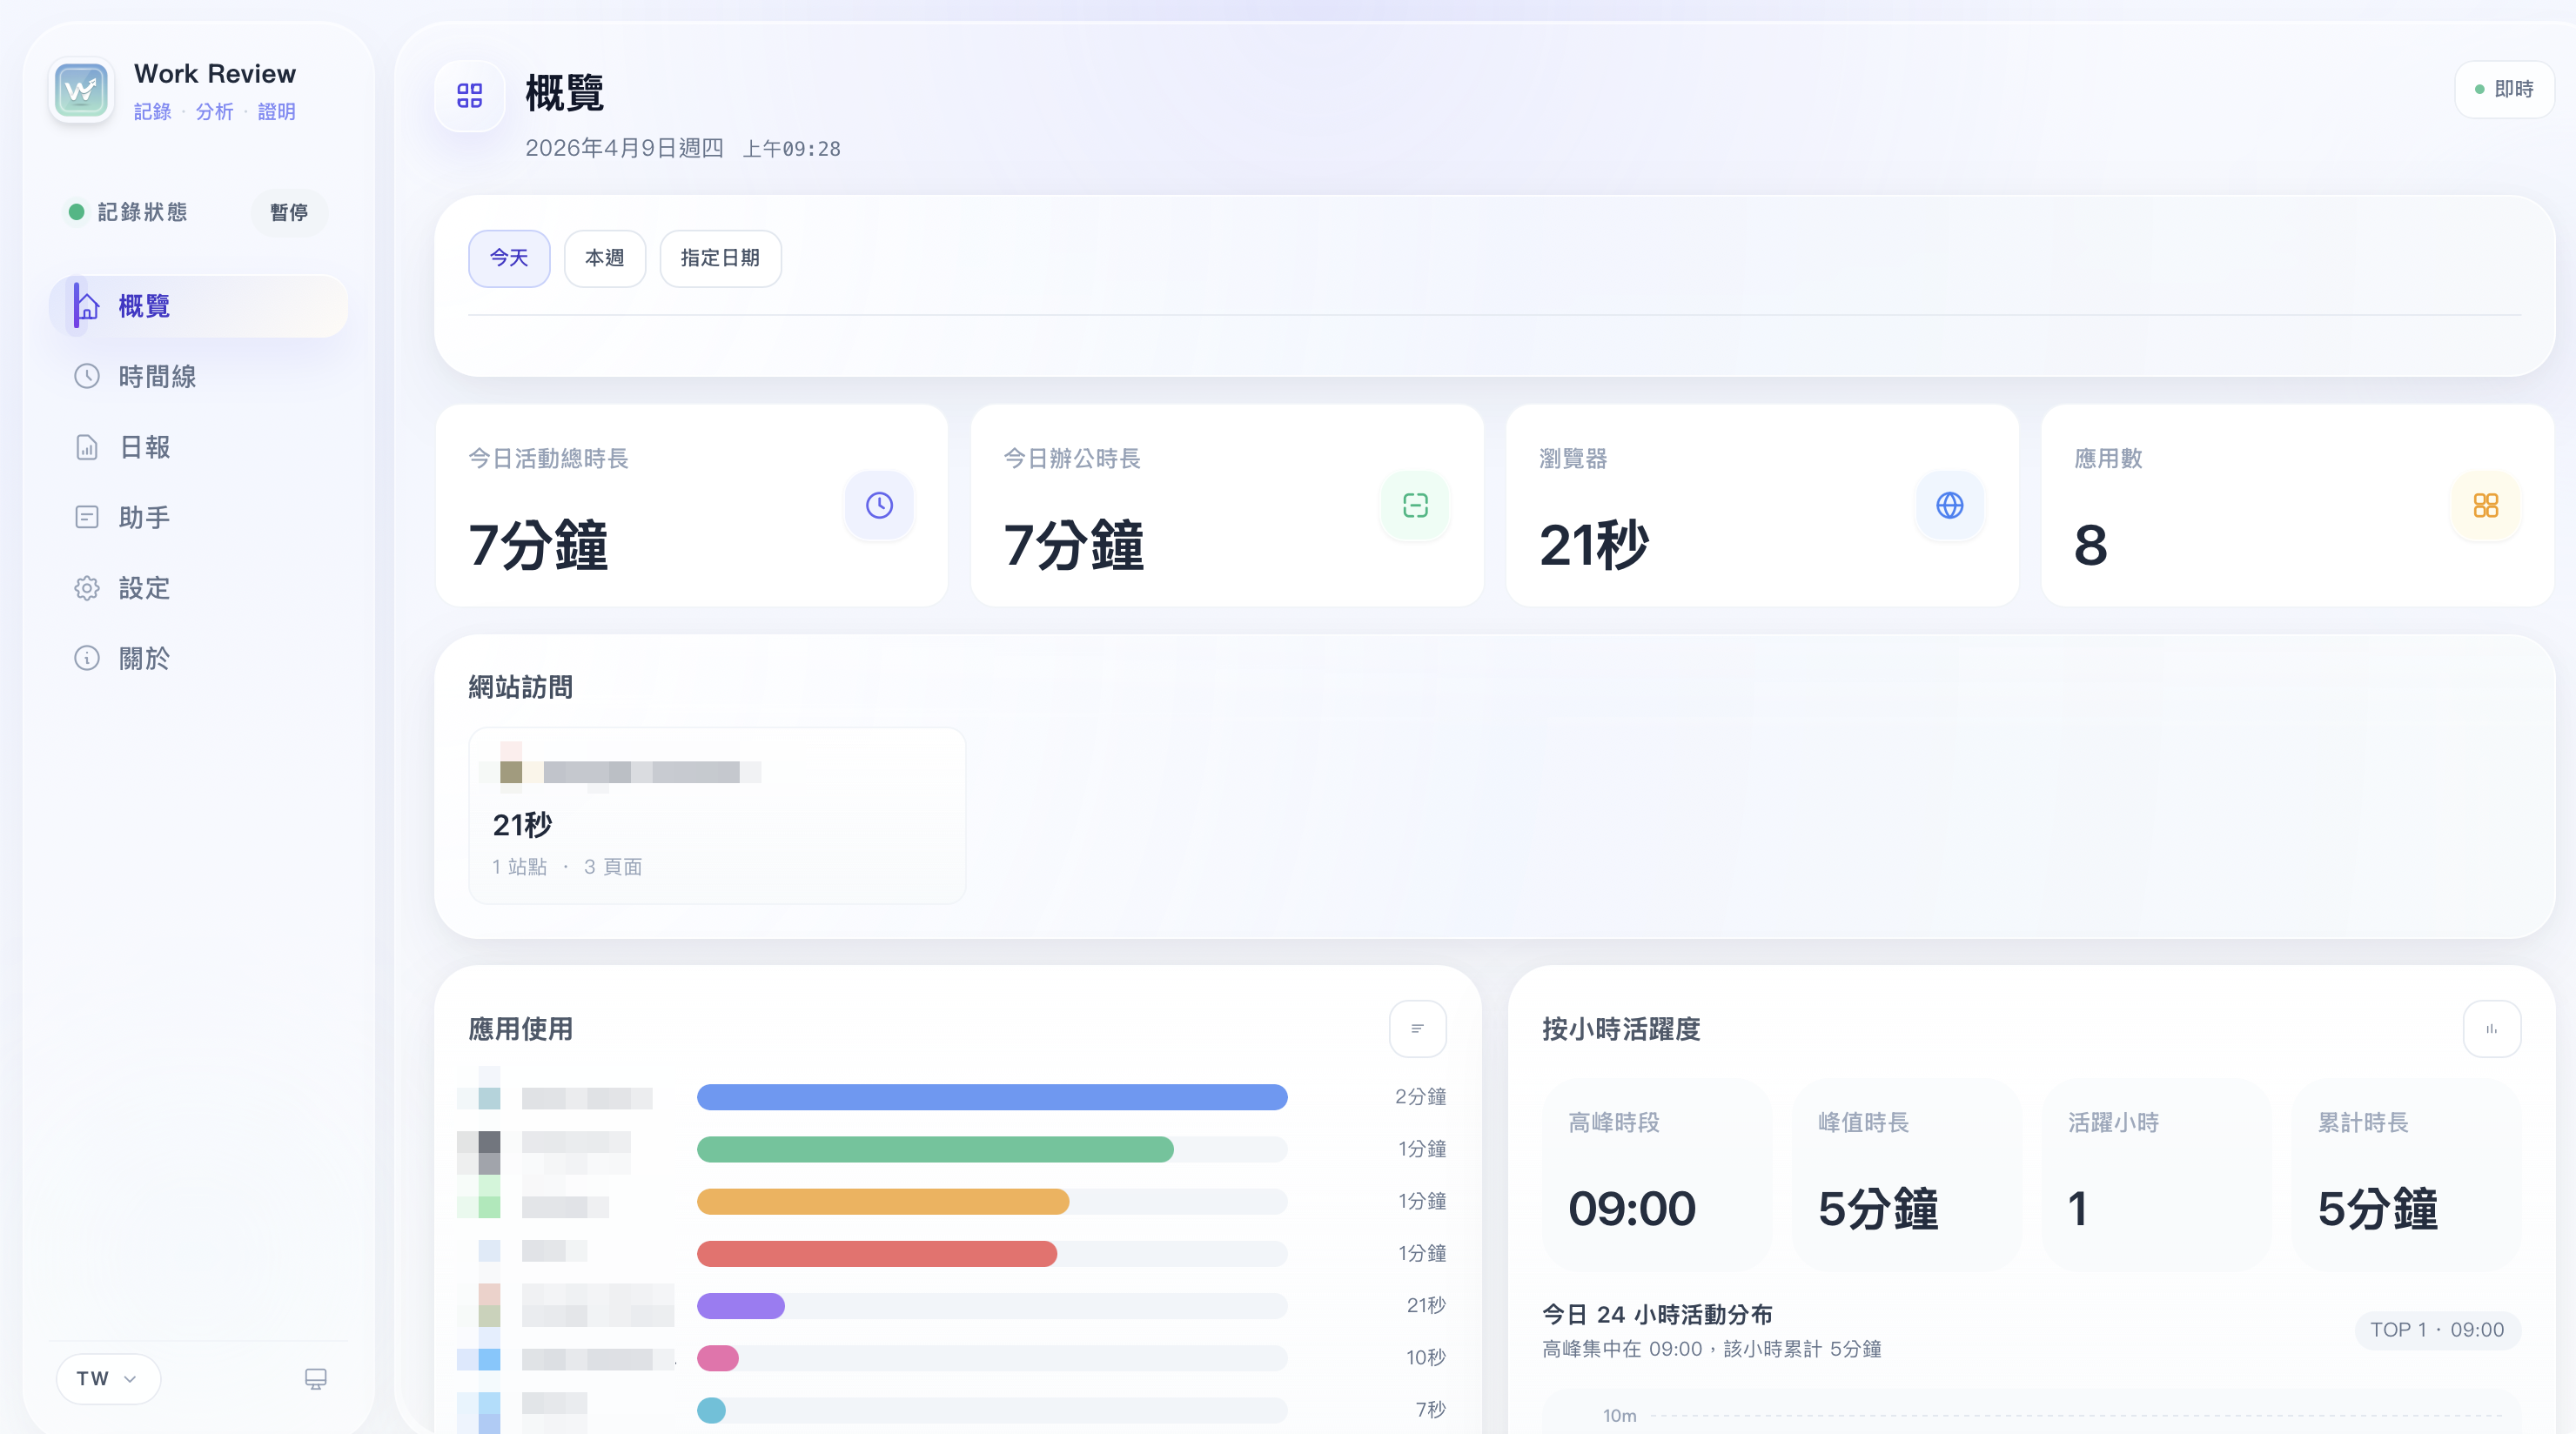
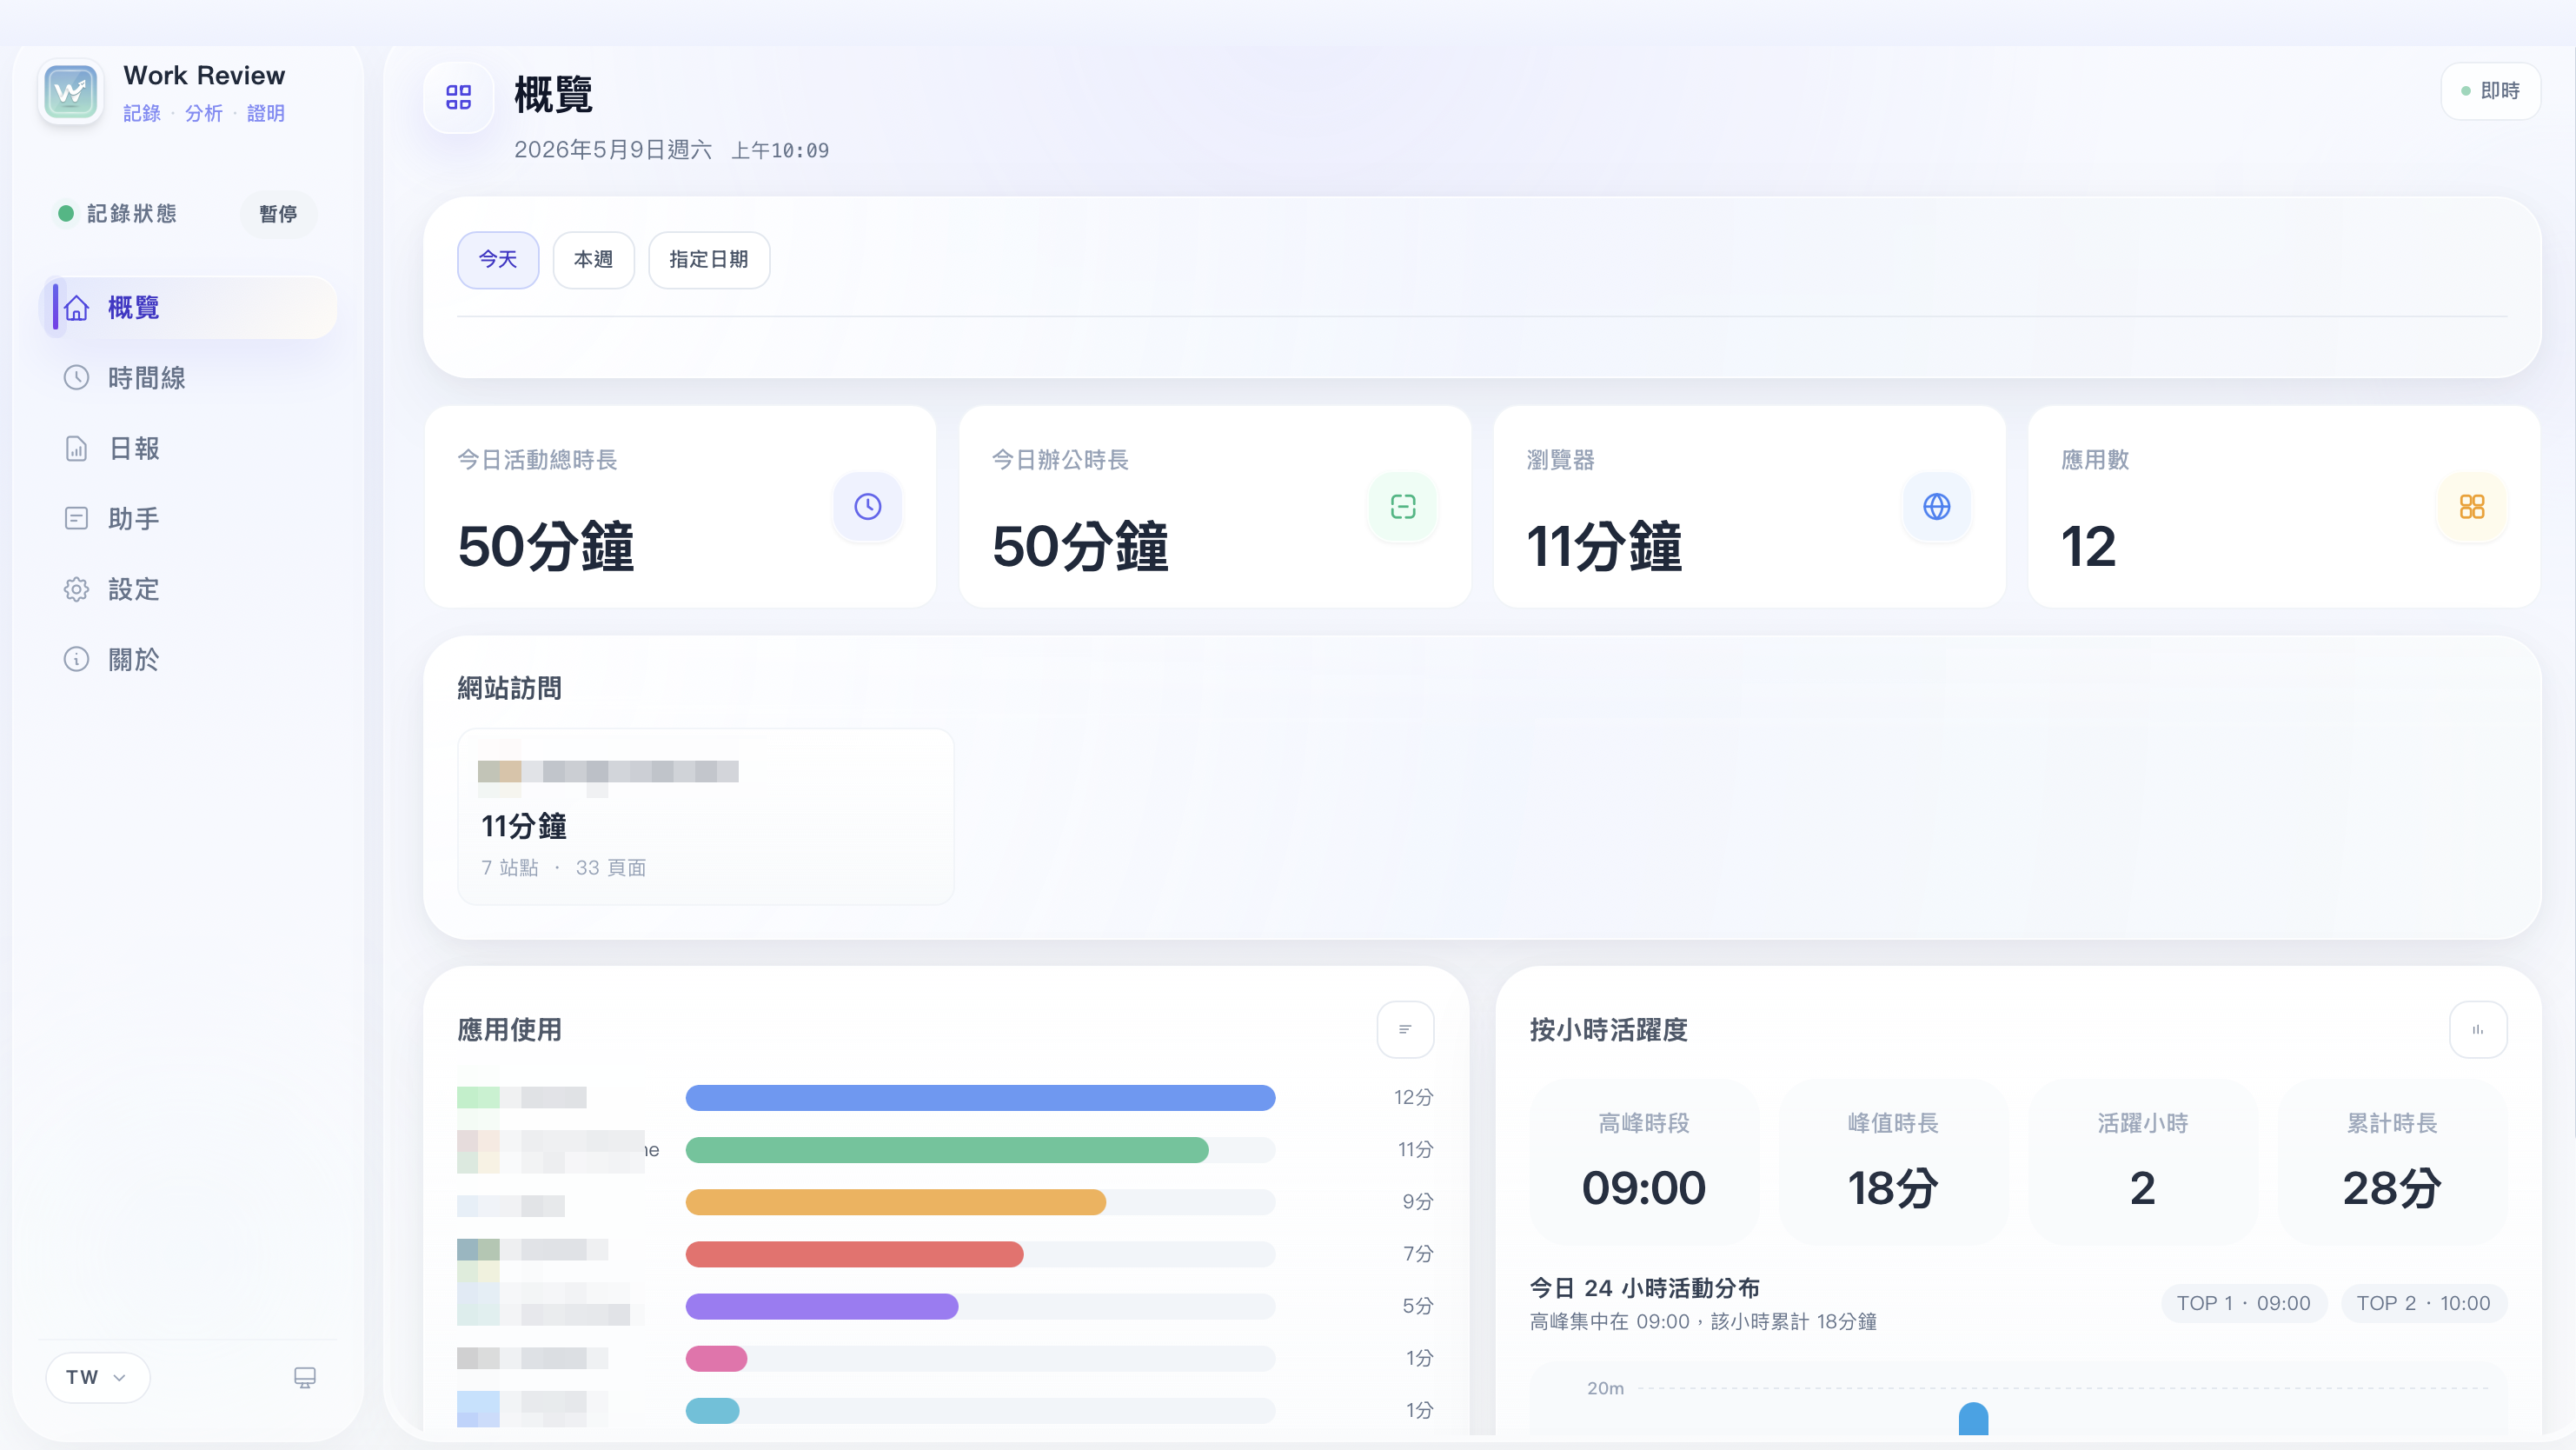
fix: API URL double-append for all providers, move manual model input to top, v1.0.46
- Fix URL path duplication causing 404 when users enter full API URLs
- Apply fix to all providers: OpenAI-compatible, Claude, Gemini, Ollama
- Move manual model input option to top of model dropdown

diff --git a/src/OpenAiCompatibility.test.js b/src/OpenAiCompatibility.test.js
@@ -9,6 +9,6 @@ test('云端分析器应使用配置的兼容端点，而不是写死官方 Open
   ]);
 
   assert.doesNotMatch(cloudSource, /https:\/\/api\.openai\.com\/v1\/chat\/completions/);
-  assert.match(cloudSource, /format!\("\{\}\/chat\/completions", self\.endpoint\)/);
+  assert.match(cloudSource, /build_chat_url/);
   assert.match(analysisSource, /CloudAnalyzer::new\(\s*endpoint,/);
 });

diff --git a/src/routes/settings/components/SettingsAI.svelte b/src/routes/settings/components/SettingsAI.svelte
@@ -478,10 +478,10 @@
               }}
               class="control-input"
             >
+              <option value="__manual__">{t('settingsAI.manualModel')}</option>
               {#each fetchedModels as model (model)}
                 <option value={model}>{model}</option>
               {/each}
-              <option value="__manual__">{t('settingsAI.manualModel')}</option>
             </select>
           {/if}
         </div>

diff --git a/src-tauri/src/main.rs b/src-tauri/src/main.rs
@@ -1102,11 +1102,17 @@ fn should_probe_browser_url_before_change_detection(
     window_title: &str,
     last_app_name: Option<&str>,
     last_window_title: Option<&str>,
+    current_browser_url: Option<&str>,
 ) -> bool {
-    monitor::is_browser_app(app_name)
-        && !window_title.is_empty()
-        && last_app_name == Some(app_name)
-        && last_window_title == Some(window_title)
+    if !monitor::is_browser_app(app_name) || window_title.is_empty() {
+        return false;
+    }
+    // 首次遇到浏览器窗口时（last 为 None），也需要探测 URL
+    if last_app_name.is_none() || last_window_title.is_none() {
+        return current_browser_url.is_none();
+    }
+    // 同窗口持续使用时，探测 URL 变化
+    last_app_name == Some(app_name) && last_window_title == Some(window_title)
 }
 
 fn browser_change_capture_min_interval_ms(
@@ -1675,7 +1681,15 @@ async fn background_screenshot_task(state: Arc<Mutex<AppState>>, app: AppHandle)
             )
         };
         let mut active_window = if let Some(window) = cached_active_window {
-            window
+            // 头像循环缓存不含浏览器 URL，如果是浏览器窗口则跳过缓存重新获取
+            if monitor::is_browser_app(&window.app_name) && window.browser_url.is_none() {
+                match monitor::get_active_window() {
+                    Ok(w) => w,
+                    Err(_) => window,
+                }
+            } else {
+                window
+            }
         } else {
             match monitor::get_active_window() {
                 Ok(w) => w,
@@ -1733,6 +1747,7 @@ async fn background_screenshot_task(state: Arc<Mutex<AppState>>, app: AppHandle)
             &active_window.window_title,
             last_app_name.as_deref(),
             last_app_window_title.as_deref(),
+            active_window.browser_url.as_deref(),
         );
         if should_probe_browser_url {
             if let Some(resolved_url) = monitor::resolve_browser_url_for_window(
@@ -3523,18 +3538,39 @@ mod tests {
             "项目文档",
             Some("Google Chrome"),
             Some("项目文档"),
+            None,
         ));
         assert!(!should_probe_browser_url_before_change_detection(
             "Google Chrome",
             "项目文档",
             Some("Google Chrome"),
             Some("另一个标签页"),
+            None,
         ));
         assert!(!should_probe_browser_url_before_change_detection(
             "Cursor",
             "main.rs",
             Some("Cursor"),
             Some("main.rs"),
+            None,
+        ));
+    }
+
+    #[test]
+    fn 首次遇到浏览器窗口时应探测url() {
+        assert!(should_probe_browser_url_before_change_detection(
+            "Google Chrome",
+            "项目文档",
+            None,
+            None,
+            None,
+        ));
+        assert!(!should_probe_browser_url_before_change_detection(
+            "Google Chrome",
+            "项目文档",
+            None,
+            None,
+            Some("https://example.com"),
         ));
     }
 

diff --git a/src-tauri/src/commands.rs b/src-tauri/src/commands.rs
@@ -2530,8 +2530,10 @@ async fn generate_text_answer_with_model(
 
     match model_config.provider {
         AiProvider::Ollama => {
+            let ollama_base = model_config.endpoint.trim().trim_end_matches('/');
+            let ollama_url = if ollama_base.ends_with("/api/chat") { ollama_base.to_string() } else { format!("{ollama_base}/api/chat") };
             let response = client
-                .post(format!("{}/api/chat", model_config.endpoint))
+                .post(&ollama_url)
                 .json(&serde_json::json!({
                     "model": model_config.model,
                     "messages": [
@@ -2573,8 +2575,10 @@ async fn generate_text_answer_with_model(
                 return Err(AppError::Analysis("Claude API Key 未配置".to_string()));
             }
 
+            let claude_base = model_config.endpoint.trim().trim_end_matches('/');
+            let claude_url = if claude_base.ends_with("/messages") { claude_base.to_string() } else { format!("{claude_base}/messages") };
             let response = client
-                .post(format!("{}/messages", model_config.endpoint))
+                .post(&claude_url)
                 .header("x-api-key", api_key)
                 .header("anthropic-version", "2023-06-01")
                 .header("content-type", "application/json")
@@ -2616,11 +2620,10 @@ async fn generate_text_answer_with_model(
                 return Err(AppError::Analysis("Gemini API Key 未配置".to_string()));
             }
 
+            let gemini_base = model_config.endpoint.trim().trim_end_matches('/');
+            let gemini_url = format!("{}/models/{}:generateContent?key={}", gemini_base, model_config.model, api_key);
             let response = client
-                .post(format!(
-                    "{}/models/{}:generateContent?key={}",
-                    model_config.endpoint, model_config.model, api_key
-                ))
+                .post(&gemini_url)
                 .json(&serde_json::json!({
                     "contents": [{
                         "parts": [{
@@ -2654,8 +2657,14 @@ async fn generate_text_answer_with_model(
             Ok(answer)
         }
         _ => {
+            let endpoint = model_config.endpoint.trim().trim_end_matches('/');
+            let url = if endpoint.ends_with("/chat/completions") {
+                endpoint.to_string()
+            } else {
+                format!("{endpoint}/chat/completions")
+            };
             let mut request = client
-                .post(format!("{}/chat/completions", model_config.endpoint))
+                .post(&url)
                 .json(&serde_json::json!({
                     "model": model_config.model,
                     "messages": [
@@ -4608,6 +4617,10 @@ fn openai_compatible_chat_completion_urls(endpoint: &str) -> Vec<String> {
         return Vec::new();
     }
 
+    if base.ends_with("/chat/completions") {
+        return vec![base.to_string()];
+    }
+
     let mut urls = vec![format!("{base}/chat/completions")];
     if !base.ends_with("/v1") {
         urls.push(format!("{base}/v1/chat/completions"));
@@ -4700,8 +4713,10 @@ async fn test_claude(
 ) -> Result<String, String> {
     let api_key = config.api_key.as_ref().ok_or("未配置 API Key")?;
 
+    let claude_base = config.endpoint.trim().trim_end_matches('/');
+    let claude_url = if claude_base.ends_with("/messages") { claude_base.to_string() } else { format!("{claude_base}/messages") };
     let response = client
-        .post(format!("{}/messages", config.endpoint))
+        .post(&claude_url)
         .header("x-api-key", api_key)
         .header("anthropic-version", "2023-06-01")
         .json(&serde_json::json!({

diff --git a/crates/core/src/analysis/summary.rs b/crates/core/src/analysis/summary.rs
@@ -134,6 +134,10 @@ fn openai_compatible_chat_completion_urls(endpoint: &str) -> Vec<String> {
         return Vec::new();
     }
 
+    if base.ends_with("/chat/completions") {
+        return vec![base.to_string()];
+    }
+
     let mut urls = vec![format!("{base}/chat/completions")];
     if !base.ends_with("/v1") {
         urls.push(format!("{base}/v1/chat/completions"));
@@ -876,6 +880,18 @@ mod tests {
         assert_eq!(
             openai_compatible_chat_completion_urls("https://api.openai.com/v1"),
             vec!["https://api.openai.com/v1/chat/completions".to_string()]
+        );
+    }
+
+    #[test]
+    fn 已包含_chat_completions_的端点不应重复拼接() {
+        assert_eq!(
+            openai_compatible_chat_completion_urls("https://ark.cn-beijing.volces.com/api/v3/chat/completions"),
+            vec!["https://ark.cn-beijing.volces.com/api/v3/chat/completions".to_string()]
+        );
+        assert_eq!(
+            openai_compatible_chat_completion_urls("https://example.com/v1/chat/completions/"),
+            vec!["https://example.com/v1/chat/completions".to_string()]
         );
     }
 }

diff --git a/crates/core/src/analysis/cloud.rs b/crates/core/src/analysis/cloud.rs
@@ -11,6 +11,15 @@ use serde_json::json;
 use std::path::Path;
 use std::time::Duration;
 
+fn build_chat_url(endpoint: &str) -> String {
+    let base = endpoint.trim().trim_end_matches('/');
+    if base.ends_with("/chat/completions") {
+        base.to_string()
+    } else {
+        format!("{base}/chat/completions")
+    }
+}
+
 fn screenshot_prompt(locale: AppLocale) -> &'static str {
     match locale {
         AppLocale::ZhCn => "请简要描述这张截图中的工作内容，用简体中文回答，限制在 50 字以内。",
@@ -67,7 +76,7 @@ impl CloudAnalyzer {
 
         let response = self
             .client
-            .post(format!("{}/chat/completions", self.endpoint))
+            .post(build_chat_url(&self.endpoint))
             .header("Authorization", format!("Bearer {}", self.api_key))
             .json(&json!({
                 "model": self.model,
@@ -140,7 +149,7 @@ impl CloudAnalyzer {
 
         let response = self
             .client
-            .post(format!("{}/chat/completions", self.endpoint))
+            .post(build_chat_url(&self.endpoint))
             .header("Authorization", format!("Bearer {}", self.api_key))
             .json(&json!({
                 "model": self.model,

diff --git a/src-tauri/src/monitor.rs b/src-tauri/src/monitor.rs
@@ -3422,8 +3422,16 @@ fn resolve_browser_url_for_window_linux(app_name: &str, window_title: &str) -> O
 }
 
 #[cfg(not(any(target_os = "macos", target_os = "linux")))]
-pub fn resolve_browser_url_for_window(_app_name: &str, _window_title: &str) -> Option<String> {
-    None
+pub fn resolve_browser_url_for_window(app_name: &str, window_title: &str) -> Option<String> {
+    if !is_browser_app(app_name) {
+        return None;
+    }
+    // 获取前台窗口 hwnd 并尝试读取浏览器 URL
+    let hwnd = unsafe { winapi::um::winuser::GetForegroundWindow() };
+    if hwnd.is_null() {
+        return None;
+    }
+    get_browser_url_windows(app_name, window_title, hwnd as isize)
 }
 
 /// 获取当前活动窗口信息 (Linux X11，使用 xdotool + xprop)

diff --git a/README.en.md b/README.en.md
@@ -223,13 +223,21 @@ Requires: Node.js 18+ / Rust stable / Tauri 2 CLI · Tech stack: Tauri 2 + Rust 
   <img src="docs/group/vx.jpg" alt="WeChat Group" width="220" />
 </p>
 
+<p align="center"><small>If the QR code has expired, follow the official account below for the latest group invitation, or join the TG group</small></p>
+
+---
+
 <p align="center"><strong>WeChat Official Account</strong></p>
 
 <p align="center">
   <img src="docs/group/gzh.jpg" alt="Official Account" width="220" />
 </p>
 
-[![Telegram](https://img.shields.io/badge/Telegram-Join-26A5E4?style=flat-square&logo=telegram&logoColor=white)](https://t.me/+stYJLlkZbDYwM2Rl)
+---
+
+<p align="center">
+  <a href="https://t.me/+stYJLlkZbDYwM2Rl"><img src="https://img.shields.io/badge/Telegram-Join-26A5E4?style=flat-square&logo=telegram&logoColor=white" alt="Telegram"></a>
+</p>
 
 ## Acknowledgements
 

diff --git a/README.md b/README.md
@@ -223,13 +223,21 @@ npm run tauri:build  # 构建
   <img src="docs/group/vx.jpg" alt="微信群" width="220" />
 </p>
 
+<p align="center"><small>如果二维码失效，关注下方公众号获取最新进群方式，或者进 TG 群吐槽</small></p>
+
+---
+
 <p align="center"><strong>公众号</strong></p>
 
 <p align="center">
   <img src="docs/group/gzh.jpg" alt="公众号" width="220" />
 </p>
 
-[![Telegram](https://img.shields.io/badge/Telegram-加入群组-26A5E4?style=flat-square&logo=telegram&logoColor=white)](https://t.me/+stYJLlkZbDYwM2Rl)
+---
+
+<p align="center">
+  <a href="https://t.me/+stYJLlkZbDYwM2Rl"><img src="https://img.shields.io/badge/Telegram-加入群组-26A5E4?style=flat-square&logo=telegram&logoColor=white" alt="Telegram"></a>
+</p>
 
 ## 致谢
 

diff --git a/README.tw.md b/README.tw.md
@@ -223,13 +223,21 @@ npm run tauri:build  # 構建
   <img src="docs/group/vx.jpg" alt="微信群" width="220" />
 </p>
 
+<p align="center"><small>如果二維碼失效，關注下方公眾號獲取最新進群方式，或者進 TG 群吐槽</small></p>
+
+---
+
 <p align="center"><strong>公眾號</strong></p>
 
 <p align="center">
   <img src="docs/group/gzh.jpg" alt="公眾號" width="220" />
 </p>
 
-[![Telegram](https://img.shields.io/badge/Telegram-加入群組-26A5E4?style=flat-square&logo=telegram&logoColor=white)](https://t.me/+stYJLlkZbDYwM2Rl)
+---
+
+<p align="center">
+  <a href="https://t.me/+stYJLlkZbDYwM2Rl"><img src="https://img.shields.io/badge/Telegram-加入群組-26A5E4?style=flat-square&logo=telegram&logoColor=white" alt="Telegram"></a>
+</p>
 
 ## 致謝
 

diff --git a/CHANGELOG.md b/CHANGELOG.md
@@ -5,6 +5,13 @@ All notable changes to this project will be documented in this file.
 The format is based on [Keep a Changelog](https://keepachangelog.com/en/1.0.0/),
 and this project adheres to [Semantic Versioning](https://semver.org/spec/v2.0.0.html).
 
+## [1.0.46] - 2026-05-09
+
+### 修复
+- 修复所有 AI 提供商（豆包、OpenAI、Claude、Gemini、Ollama 等）的 API 地址双重拼接问题：用户填写完整 URL 时不再导致 404。
+- 模型列表下拉菜单中"手动输入"选项移至顶部。
+- 修复浏览器/应用已打开时启动软件导致 URL 丢失和分类显示"未知"的问题：首次轮询现在会主动探测浏览器 URL。
+
 ## [1.0.45] - 2026-05-08
 
 ### 新增